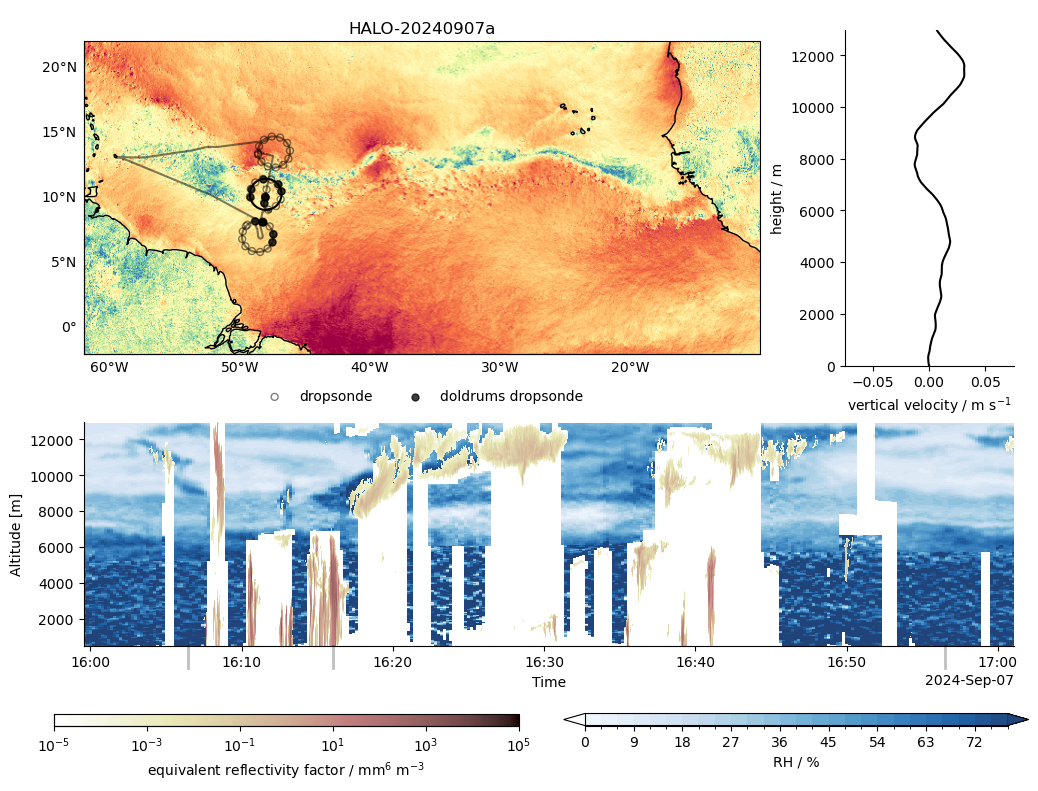
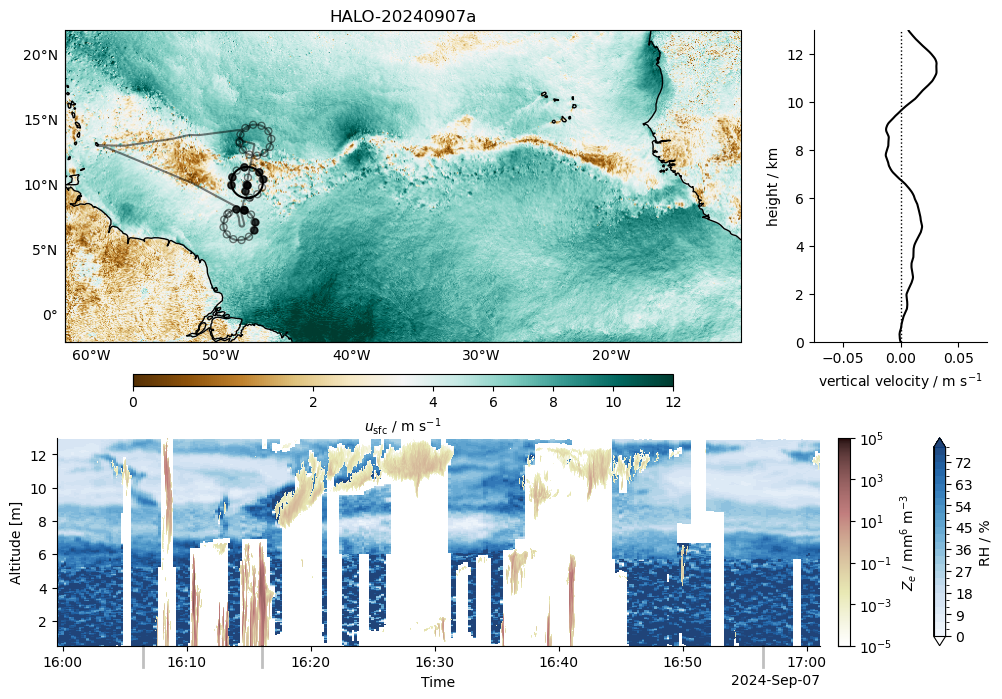
Improves doldrums plot.

diff --git a/scripts/figures_itcz_weak_winds.py b/scripts/figures_itcz_weak_winds.py
@@ -49,10 +49,12 @@ sondes_ds = xr.open_dataset(
 )
 
 sondes_ds = sondes_ds.swap_dims({"circle": "circle_id"})
+sondes_ds = sondes_ds.assign_coords(altitude=sondes_ds.altitude / 1e3)
 circles_flight_day = sondes_ds.sel(circle_time=flight_date)
 
 wsp_crit = 3.0  # m/s
-wsp_sfc = sondes_ds.wspd.sel(altitude=slice(0, 100)).mean("altitude")
+sfc_layer = slice(0, 0.1)  # km (lowest 100 m)
+wsp_sfc = sondes_ds.wspd.sel(altitude=sfc_layer).mean("altitude")
 
 ds_low_wsp = sondes_ds.where(wsp_sfc < wsp_crit, drop=True)
 doldrum_sondes_id = ds_low_wsp.vaisala_serial_id
@@ -125,7 +127,9 @@ scatter_kwargs = {
 
 fig = plt.figure(figsize=(12, 8))
 
-gs = fig.add_gridspec(2, 2, height_ratios=[1.5, 1], width_ratios=[4, 1])
+gs = fig.add_gridspec(
+    2, 2, height_ratios=[1.5, 1], width_ratios=[4, 1], hspace=0.37, wspace=0.15
+)
 
 ax_lam = fig.add_subplot(gs[0, 0], projection=ccrs.PlateCarree())
 ax_ds = fig.add_subplot(gs[0, 1])
@@ -136,8 +140,27 @@ base_map(coastline_kwargs={"color": "k"}, ax=ax_lam)
 
 vmin, vmax, vcenter = 0, 12, 3
 norm = TwoSlopeNorm(vmin=vmin, vcenter=vcenter, vmax=vmax)
-cmap = plt.cm.Spectral_r
+cmap = plt.cm.BrBG.copy()
 im = egh.healpix_show(ds_lam_sel, cmap=cmap, norm=norm, ax=ax_lam, alpha=1.0)
+
+pos = ax_lam.get_position()
+width_scale = 0.8
+
+cax_lam = fig.add_axes(
+    [
+        pos.x0 + pos.width * (1 - width_scale) / 2,  # left
+        pos.y1 - 0.445,  # bottom
+        pos.width * width_scale,  # width
+        0.015,  # height
+    ]
+)
+
+cb_lam = fig.colorbar(
+    im,
+    cax=cax_lam,
+    orientation="horizontal",
+    label=r"$u_{\text{sfc}}$ / m s$^{-1}$",
+)
 
 mask = (tracks.time >= segment_start) & (tracks.time <= segment_end)
 
@@ -178,13 +201,25 @@ ax_lam.scatter(
 ax_lam.set_xlabel("longitude / °")
 ax_lam.set_ylabel("latitude / °")
 ax_lam.spines[["right", "top"]].set_visible(False)
-ax_lam.legend(frameon=False, loc="lower center", bbox_to_anchor=(0.5, -0.2), ncol=4)
 ax_lam.set_title(flight_id)
+# ax_lam.legend(
+#     loc="upper left",
+#     ncol=1,
+#     frameon=True,
+#     edgecolor="k",
+#     labelcolor="k",
+#     fontsize=9,
+#     facecolor="white",
+#     framealpha=0.5,
+# )
 
 cmap_wales = plt.get_cmap("Blues").copy()
 cmap_wales.set_under((1, 1, 1, 0))  # transparent
 
 ds_wales_sel_segment = ds_wales_wv.sel(time=slice(segment_start, segment_end))
+ds_wales_sel_segment = ds_wales_sel_segment.assign_coords(
+    altitude=ds_wales_sel_segment.altitude / 1e3
+)
 im_wales = ds_wales_sel_segment["RH"].plot(
     alpha=0.9,
     x="time",
@@ -202,7 +237,9 @@ cmap.set_under((1, 1, 1, 0))  # transparent
 reflectivity_segment = ds_hamp_flight.radar_reflectivity.sel(
     time=slice(segment_start, segment_end)
 )
-
+reflectivity_segment = reflectivity_segment.assign_coords(
+    altitude=reflectivity_segment.altitude / 1e3
+)
 
 im_hamp = reflectivity_segment.plot(
     y="altitude",
@@ -215,32 +252,25 @@ im_hamp = reflectivity_segment.plot(
 
 
 pos = ax_wales.get_position()
+ax_wales.set_position([pos.x0, pos.y0, pos.width * 0.82, pos.height])
+pos = ax_wales.get_position()
 
-cax_wv_positions = [
-    pos.x0 - 0.025,  # left
-    pos.y1 - 0.38,  # bottom
-    0.5 * pos.width,  # width
-    0.015,  # height
-]
-
-cax_wv = fig.add_axes(cax_wv_positions)
-cax_wales = fig.add_axes(cax_wv_positions + np.array([0.425, 0, 0, 0]))
-
+cbar_width = 0.01
+cax_wv = fig.add_axes([pos.x1 + 0.015, pos.y0, cbar_width, pos.height])
+cax_wales = fig.add_axes([pos.x1 + 0.095, pos.y0, cbar_width, pos.height])
 
 cb = fig.colorbar(
     im_hamp,
     cax=cax_wv,
-    orientation="horizontal",
-    label=r"equivalent reflectivity factor / mm$^6$ m$^{-3}$",
-    shrink=0.75,
+    orientation="vertical",
+    label=r"$Z_e$ / mm$^6$ m$^{-3}$",
 )
 
 cb_wales = fig.colorbar(
     im_wales,
     cax=cax_wales,
-    orientation="horizontal",
+    orientation="vertical",
     label=r"RH / %",
-    shrink=0.75,
 )
 
 
@@ -251,25 +281,27 @@ circles_flight_day.sel(circle_id=segment_for_plot["segment_id"]).wvel.plot(
 circle_in_segment = circles_flight_day.sel(circle_id=segment_for_plot["segment_id"])
 
 cwv_circle_in_segment = circle_in_segment.iwv_mean.values
-wspd_100m_in_segment = circle_in_segment.wspd_mean.sel(altitude=slice(0, 100)).mean()
+wspd_100m_in_segment = circle_in_segment.wspd_mean.sel(altitude=sfc_layer).mean()
 
 
 print(f"Mean IWV in circle segment: {cwv_circle_in_segment:.2f} kg/m^2")
 print(f"Mean wind speed in circle segment: {wspd_100m_in_segment:.2f} m/s")
 print(
-    f"Min wind speed in circle segment: {circle_in_segment.wspd_mean.sel(altitude=slice(0, 100)).min().values:.2f} m/s"
+    f"Min wind speed in circle segment: {circle_in_segment.wspd_mean.sel(altitude=sfc_layer).min().values:.2f} m/s"
 )
 print(
-    f"Max wind speed in circle segment: {circle_in_segment.wspd_mean.sel(altitude=slice(0, 100)).max().values:.2f} m/s"
+    f"Max wind speed in circle segment: {circle_in_segment.wspd_mean.sel(altitude=sfc_layer).max().values:.2f} m/s"
 )
 
+ax_ds.axvline(0, color="k", linestyle=":", linewidth=1, zorder=0)
+
 ax_ds.set_xlabel("vertical velocity / m s$^{-1}$")
-ax_ds.set_ylabel("height / m")
+ax_ds.set_ylabel("height / km")
 ax_ds.set_title(" ")
-ax_ds.set_ylim(ymin=0, ymax=13e3)
+ax_ds.set_ylim(ymin=0, ymax=13)
 ax_ds.set_xlim(xmin=-0.075, xmax=0.075)
 
-ax_wales.set_ylim(ymin=500, ymax=13e3)
+ax_wales.set_ylim(ymin=0.5, ymax=13)
 
 specMACS_start_times = [
     np.datetime64("2024-09-07T16:06:29"),
